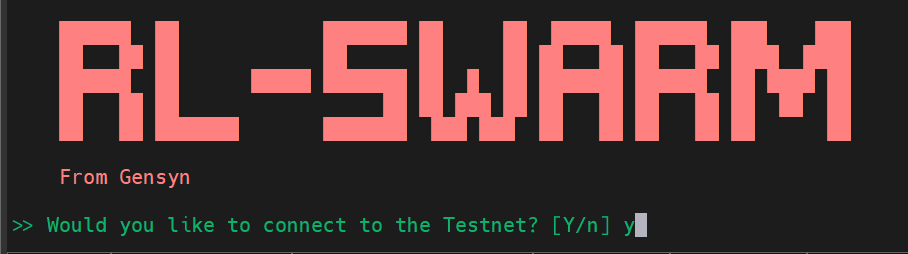
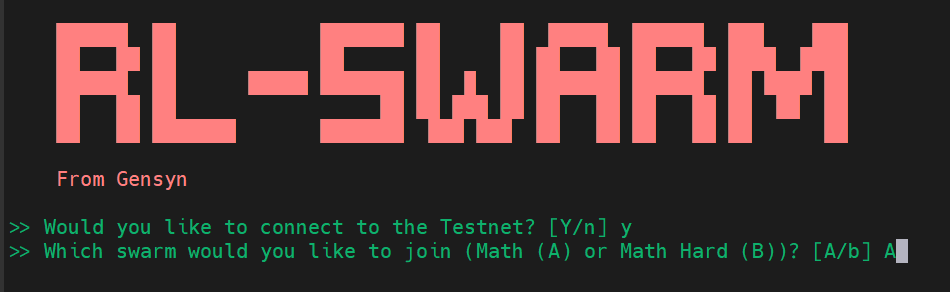
GITBOOK-36: No subject

Changed region(s): [[0.2467, 0.0551, 0.9559, 0.5787], [0.0, 0.0551, 0.9559, 0.937], [0.0, 0.9921, 1.0, 1.0]]

diff --git a/nodes/gensyn.md b/nodes/gensyn.md
@@ -11,7 +11,7 @@
   * [Підготовка сервера](gensyn.md#pidgotovka-servera)
   * [Встановлення ноди](gensyn.md#vstanovlennya-nodi)
   * [Підключення пошти](gensyn.md#pidklyuchennya-poshti)
-* [Оновлення до v0.3.2](gensyn.md#onovlennya-do-v0.3.2)
+* [Оновлення до v0.4.1](gensyn.md#onovlennya-do-v0.3.2)
 
 ## Скрипт
 
@@ -70,13 +70,19 @@ yarn upgrade && yarn add next@latest && yarn add viem@latest && \
 cd .. && ./run_rl_swarm.sh
 ```
 
-`Would you like to connect to the Testnet? [Y/n]` -  вводимо "Y" та Enter
-
 ### Підключення пошти
+
+<figure><img src="../.gitbook/assets/image (3).png" alt=""><figcaption></figcaption></figure>
+
+`Would you like to connect to the Testnet? [Y/n]` - Тиснемо Y
+
+`Which swarm would you like to join (Math (A) or Math Hard (B))? [A/b]` - Для серверів CPU тиснемо A
+
+`How many parameters (in billions)? [0.5, 1.5, 7, 32, 72]` - для слаших серверів чи vps обираєм `0,5`, для дедіків можна поставити `1,5`
 
 Якщо ви бачите наступні логи, значить поки все вірно
 
-<figure><img src="../.gitbook/assets/image (3).png" alt=""><figcaption></figcaption></figure>
+<figure><img src="../.gitbook/assets/image (3) (1).png" alt=""><figcaption></figcaption></figure>
 
 Налаштовуємо тунель між сервером та своїм компом щоб підключити пошту.
 
@@ -111,7 +117,7 @@ ssh -L 3000:localhost:3000 -i key_directory root@Server_IP
 
 Після створення тунелю можна переходити у браузер та відкриваємо сторінку із `localhost:3000`
 
-<figure><img src="../.gitbook/assets/image (1) (1) (1) (1).png" alt=""><figcaption></figcaption></figure>
+<figure><img src="../.gitbook/assets/image (1) (1) (1) (1) (1).png" alt=""><figcaption></figcaption></figure>
 
 Тисните кнопку "Login" , після цього ви можете зареєструватись через google пошту, або вписати її вручну.
 
@@ -124,7 +130,7 @@ ssh -L 3000:localhost:3000 -i key_directory root@Server_IP
 > Would you like to push models you train in the RL swarm to the Hugging Face Hub?  y/ N \
 > Тут натискаєте "n" і  Enter
 
-<figure><img src="../.gitbook/assets/Знімок екрана 2025-04-10 о 14.31.32.png" alt=""><figcaption></figcaption></figure>
+<figure><img src="../.gitbook/assets/image (2).png" alt=""><figcaption></figcaption></figure>
 
 &#x20;В логах з'явиться ваші три "name words" та ID вашої ноди. Можете їх виписати в таблицю для того що б подальшому можна було моніторити її в дашбоарді.
 
@@ -136,7 +142,7 @@ ssh -L 3000:localhost:3000 -i key_directory root@Server_IP
 
 Гайд в подальшому буде оновлюватись, чекаємо апдейтів.
 
-## Оновлення до v0.3.2
+## Оновлення до v0.4.1
 
 ```bash
 screen -x gensyn
@@ -148,14 +154,12 @@ cd ~/rl-swarm && source .venv/bin/activate
 
 ```bash
 git reset --hard && \
-git fetch --all && git checkout tags/v0.3.2
+git fetch --all && git checkout tags/v0.4.1
 ```
 
 ```bash
 ./run_rl_swarm.sh
 ```
-
-<figure><img src="../.gitbook/assets/image.png" alt=""><figcaption></figcaption></figure>
 
 Продовжуєм далі по [гайду](gensyn.md#pidklyuchennya-poshti)
 

diff --git a/nodes/gaianet.md b/nodes/gaianet.md
@@ -23,7 +23,7 @@ curl -sSfL 'https://github.com/GaiaNet-AI/gaianet-node/releases/latest/download/
 
 Зберігаємо собі `device-id` та `node-id`
 
-<figure><img src="../.gitbook/assets/image (1) (1).png" alt=""><figcaption></figcaption></figure>
+<figure><img src="../.gitbook/assets/image (1) (1) (1).png" alt=""><figcaption></figcaption></figure>
 
 <details>
 
@@ -73,9 +73,9 @@ gaianet start
 
 #### Переходимо у браузер за посиланням з терміналу
 
-<figure><img src="../.gitbook/assets/image (1) (1) (1).png" alt=""><figcaption></figcaption></figure>
+<figure><img src="../.gitbook/assets/image (1) (1) (1) (1).png" alt=""><figcaption></figcaption></figure>
 
-<figure><img src="../.gitbook/assets/image (2).png" alt=""><figcaption></figcaption></figure>
+<figure><img src="../.gitbook/assets/image (2) (1).png" alt=""><figcaption></figcaption></figure>
 
 Тиснемо старт і спілкуємось із чатом, за кожен запит нараховуються поінти. Але спершу добавимо ноду в дашбоард сайту Gaianet.
 

diff --git a/nodes/drosera.md b/nodes/drosera.md
@@ -78,7 +78,7 @@ export DROSERA_PRIVATE_KEY="$PRIV_KEY"
 drosera apply
 ```
 
-<figure><img src="../.gitbook/assets/image (4).png" alt=""><figcaption></figcaption></figure>
+<figure><img src="../.gitbook/assets/image (4) (1).png" alt=""><figcaption></figcaption></figure>
 
 Вписуємо `ofc` та тиснемо `enter`
 
@@ -98,7 +98,7 @@ drosera apply
 
 Чим більше ефіра тим більший буст, на що конкретно впливає буст поки не відомо, максимальна кількість більше 2 ETH
 
-<figure><img src="../.gitbook/assets/image (1).png" alt=""><figcaption></figcaption></figure>
+<figure><img src="../.gitbook/assets/image (1) (1).png" alt=""><figcaption></figcaption></figure>
 
 Вписуємо бажану кількість ефіра та тиснем підтвердити на сайті і в гаманці.
 
